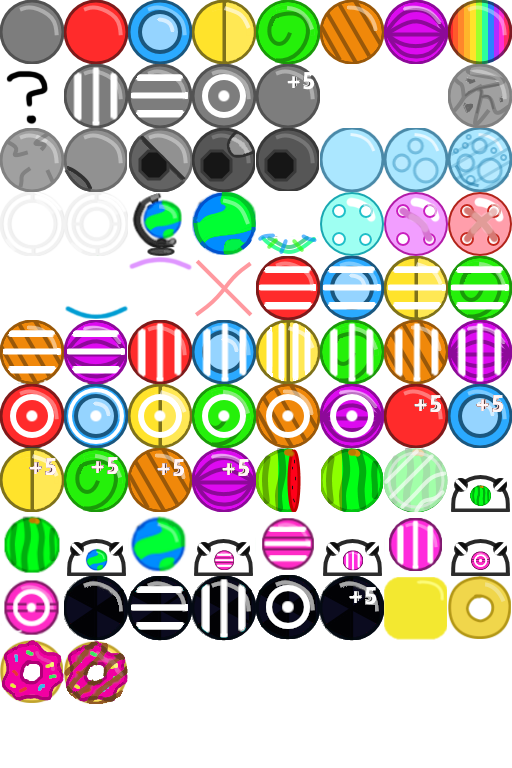
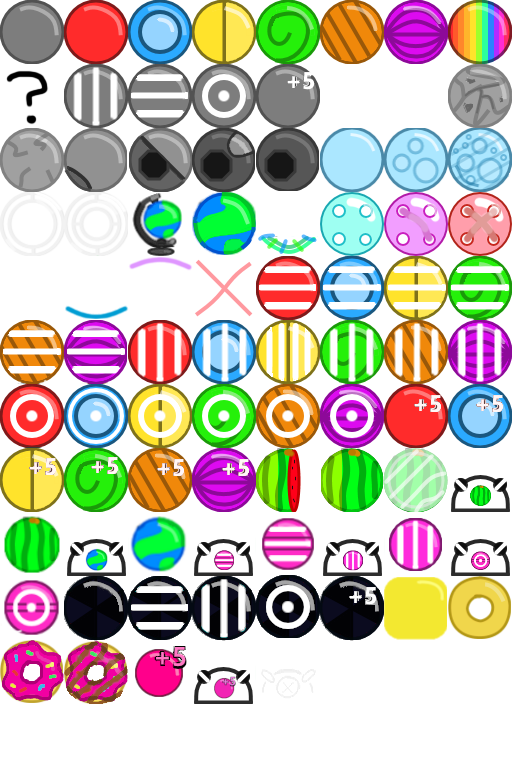
added a few things

Changed region(s): [[0.25, 0.8438, 0.5, 0.9375]]

diff --git a/src/Board.jsx b/src/Board.jsx
@@ -42,10 +42,21 @@ function Board(props) {
         }
         if (tileX < props.m.width && tileY < props.m.height && props.s) {
             if (e.button === 0) {
+                const cannonTiles = oldTiles[tileY][tileX].filter(t => t && t[0] === "C");
+                const others = oldTiles[tileY][tileX].filter(t => t && t[0] !== "C");
                 // Left button
-                if (props.s === "--") oldTiles[tileY][tileX] = []
-                else if (props.s === "-O") oldTiles[tileY][tileX] = ["-O"]
-                else if (!(oldTiles[tileY]?.[tileX].includes(props.s))) {
+                var u = false; // Should add cannon tiles?
+                var uOverride = false;
+                if (props.s === "--") {
+                    oldTiles[tileY][tileX] = [];
+                    u = true;
+                }  else if (props.s === "-O") {
+                    oldTiles[tileY][tileX] = ["-O"];
+                    u = true;
+                }  else if (props.s === "-C") {
+                    // Delete all cannon tiles.
+                    uOverride = true;
+                }  else if (!(oldTiles[tileY]?.[tileX].includes(props.s))) {
                     if (oldTiles[tileY]?.[tileX]) for (let i = 0; i < oldTiles[tileY][tileX].length; i++) {
                         let tile = oldTiles[tileY][tileX][i];
                         for (let g = 0; g < conflictingTiles.length; g++) {
@@ -53,9 +64,27 @@ function Board(props) {
                             if (c.includes(tile) && c.includes(props.s)) oldTiles[tileY][tileX].splice(i, 1);
                         }
                     }
-                    if (props.s && oldTiles[tileY]?.[tileX].some(o=>o==="-O")) oldTiles[tileY][tileX] = [];
-                    if (oldTiles[tileY]?.[tileX] && !oldTiles[tileY]?.[tileX].some(o=>o===props.s)) oldTiles[tileY][tileX].push(props.s)
+                    if (props.s && oldTiles[tileY]?.[tileX].some(o=>o==="-O")) {
+                        oldTiles[tileY][tileX] = [];
+                        u = true;
+                    }
+                    if (oldTiles[tileY]?.[tileX] && !oldTiles[tileY]?.[tileX].some(o=>o===props.s)){
+                        oldTiles[tileY][tileX].push(props.s)
+                    }
                 }
+                if (!oldTiles[tileY]?.[tileX].some(o=>o!=="-O")) {
+                    oldTiles[tileY][tileX] = [];
+                }
+
+                if (uOverride && cannonTiles.length > 0) {
+                    for (let i = 0; i <= oldTiles[tileY][tileX].length; i++) {
+                        const tile = oldTiles[tileY][tileX][i];
+                        if (tile[0] === "C") {
+                            console.log(tile)
+                            oldTiles[tileY][tileX].splice(i);
+                        }
+                    } 
+                } else if (u && others.length > 0) oldTiles[tileY][tileX] = oldTiles[tileY][tileX].concat(cannonTiles);
             } else if (e.button === 2) {
                 // Right button
                 oldTiles[tileY][tileX] = [];

diff --git a/src/tabTiles.js b/src/tabTiles.js
@@ -5,7 +5,7 @@ const tabTiles = {
         name: "Circles & Tiles",
         tiles: {
             name: "Tiles",
-            tiles: ["--","-O","*S"]
+            tiles: ["--","-O","*S","-C"]
         },
         circles: {
             name: "Regular and Black Circles",
@@ -74,7 +74,7 @@ const tabTiles = {
         },
         circle: {
             name: "Circle Cannons",
-            tiles: ["C-", "C|", "CO"]
+            tiles: ["C-", "C|", "CO", "C+"]
         }
     }
 }

diff --git a/src/Menu.jsx b/src/Menu.jsx
@@ -318,7 +318,7 @@ function Menu(props) {
             Add Cannon Data
         </button>)
         // Render the goals.
-        const gt = `Watermelon,Globe,Vertical Striped Circle,Horizontal Striped Circle,Radial Circle`
+        const gt = `Watermelon,Globe,Vertical Striped Circle,Horizontal Striped Circle,Radial Circle,Extra Time Circle`
             .split(",")
         for (let i = 0; i < cannons.length; i++) {
             let c = cannons[i];

diff --git a/src/names.js b/src/names.js
@@ -48,7 +48,8 @@ const names = {
     "CG": "Globe Cannon",
     "C-": "Horizontal Striped Circle Cannon",
     "C|": "Vertical Striped Circle Cannon",
-    "CO": "Radial Circle Cannon"
+    "CO": "Radial Circle Cannon",
+    "C+": "Extra Time Circle Cannon"
 }
 
 export default names;

diff --git a/src/aliasTiles.js b/src/aliasTiles.js
@@ -9,7 +9,7 @@ const at = [
     ["*5*+","*1*+","*2*+","*3*+","W1","W2","W3","CW"],
     ["??CW","CG","??CG","C-","??C-","C|","??C|","CO"],
     ["??CO","*B","*B*-","*B*|","*B*O","*B*+","PT","d1"],
-    ["d2","d3"]
+    ["d2","d3","??C+","C+", "-C"]
 ]
 
 export default at;
